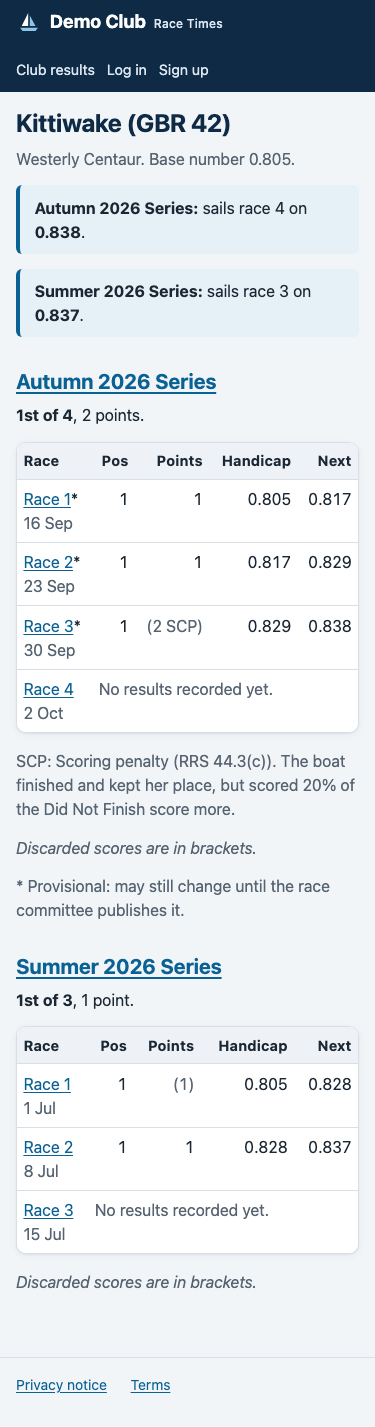
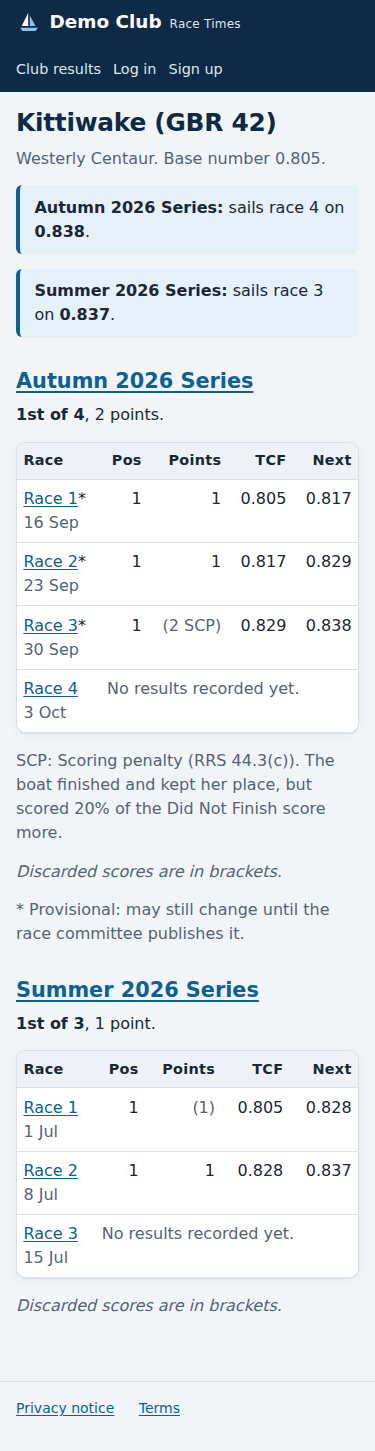
Head the NHC handicap columns TCF; give NS its own CSV column (#54)
At the owner's request: the NHC column is TCF (Next TCF), as the slice 24
spec said, and a YTC series' CSV has a separate NS column so the number stays
numeric. Manual defines TCF; the boat page screenshot is regenerated.

Claude-Session: https://claude.ai/code/session_01QY3tQYF5nVQS35pznUQfpw

diff --git a/templates/results/_race.html b/templates/results/_race.html
@@ -31,7 +31,7 @@
     <tr>
       <th class="num">Pos</th><th>Boat</th><th class="num detail">Finish</th><th class="num detail">Elapsed</th>
       <th class="num detail">{{ race.series.handicap_label }}</th><th class="num">Corrected</th><th class="num">Points</th>
-      {% if not race.series.is_fixed_number %}<th class="num detail">Next handicap</th>{% endif %}
+      {% if not race.series.is_fixed_number %}<th class="num detail">Next TCF</th>{% endif %}
     </tr>
   </thead>
   <tbody>
@@ -55,7 +55,7 @@
 {% if race_results.has_scoring_penalty %}<p class="muted">SCP: Scoring penalty (RRS 44.3(c)). The boat finished and kept her place, but scored 20% of the Did Not Finish score more.</p>{% endif %}
 {% if race.series.nhc_options %}<p class="muted">Handicaps adjusted with: {{ race.series.nhc_options|join:", " }}.</p>{% endif %}
 {# The dagger marks the next-handicap column, which only More detail shows. #}
-{% if detail and race.series.nhc_cap_extremes %}<p class="muted">&dagger; Result capped as extreme when working out the next handicap.</p>{% endif %}
+{% if detail and race.series.nhc_cap_extremes %}<p class="muted">&dagger; Result capped as extreme when working out the next TCF.</p>{% endif %}
 {% else %}
 <p class="muted">{{ section.note }}</p>
 {% endif %}

diff --git a/templates/results/boat.html b/templates/results/boat.html
@@ -21,7 +21,7 @@
   {% if next.fixed %}sails on {% if next.non_spinnaker %}her non-spinnaker {% endif %}{{ history.series.handicap_label }} <strong>{{ next.number|handicap:history.series }}</strong> for the whole series.
   {% elif next.race %}sails race {{ next.race.number }} on <strong>{{ next.tcf|tcf }}</strong>{% if next.base %}, its base number{% endif %}.
   {% elif next.base %}no races scheduled yet.
-  {% else %}handicap after race {{ next.after.number }}, the last race so far: <strong>{{ next.tcf|tcf }}</strong>.
+  {% else %}TCF after race {{ next.after.number }}, the last race so far: <strong>{{ next.tcf|tcf }}</strong>.
   {% endif %}
 </p>
 {% endwith %}{% endif %}{% endfor %}

diff --git a/results/test_portsmouth_pages.py b/results/test_portsmouth_pages.py
@@ -84,7 +84,7 @@ def test_the_race_table_is_headed_pn_and_has_no_next_handicap_column(client):
     series, _, _ = make_py_series(PY_1)
     table = race_table(series_page(client, series, race=1), 1)
     assert '<th class="num detail">PN</th>' in table
-    assert "Next handicap" not in table and ">Handicap<" not in table
+    assert "Next TCF" not in table and ">TCF<" not in table
     assert "&dagger;" not in table
 
 
@@ -176,7 +176,7 @@ def test_a_boat_in_both_kinds_of_series_shows_each_correctly(client):
     assert "Base number 0.964." in page and "Portsmouth Number 1010." in page
     autumn = page[page.index("Autumn</a>") : page.index("Gaffers</a>")]
     gaffers = page[page.index("Gaffers</a>") :]
-    assert '<th class="num">Handicap</th><th class="num">Next</th>' in autumn
+    assert '<th class="num">TCF</th><th class="num">Next</th>' in autumn
     assert '<th class="num">PN</th>' in gaffers and "Next</th>" not in gaffers
     assert "sails on PN <strong>1010</strong>" in page
 
@@ -195,8 +195,8 @@ def test_nhc_pages_keep_their_headings_and_columns(client):
         )
     page = series_page(client, series, race=1)
     table = race_table(page, 1)
-    assert '<th class="num detail">Handicap</th>' in table
-    assert '<th class="num detail">Next handicap</th>' in table
+    assert '<th class="num detail">TCF</th>' in table
+    assert '<th class="num detail">Next TCF</th>' in table
     assert "Scored under RYA NHC." in page
 
 
@@ -218,7 +218,7 @@ def test_the_csv_is_headed_pn_with_whole_numbers(client):
     ]  # fmt: skip
     first = rows[rows.index(header) + 1]
     assert first[2] == "Boat B" and first[5] == "1072"
-    assert "Handicap" not in {cell for row in rows for cell in row}
+    assert "TCF" not in {cell for row in rows for cell in row}
 
 
 # --- Pages that must not break ------------------------------------------------------------------

diff --git a/races/series_csv.py b/races/series_csv.py
@@ -122,7 +122,7 @@ RACE_COLUMNS = [
     "Boat",
     "Finish time",
     "Elapsed",
-    "Handicap",
+    "TCF",
     "Corrected",
     "Points",
     "Code",
@@ -145,8 +145,13 @@ def _write_race(row, race_results):
         ]
     )
     fixed = race.series.is_fixed_number
+    ytc = race.series.handicap_system == "YTC"
     # The handicap column is headed with the series' system (slice 24).
-    row([race.series.handicap_label if c == "Handicap" else c for c in RACE_COLUMNS])
+    columns = [race.series.handicap_label if c == "TCF" else c for c in RACE_COLUMNS]
+    if ytc:
+        # A column of its own for boats on their non-spinnaker number (slice 25).
+        columns.insert(columns.index(race.series.handicap_label) + 1, "NS")
+    row(columns)
     for line in race_results.rows:
         result, boat = line.result, line.entry.boat
         finish_time = line.finish.finish_time if line.finish else None
@@ -157,9 +162,8 @@ def _write_race(row, race_results):
                 typed(boat.name),
                 f"{finish_time:%H:%M:%S}" if finish_time else "",
                 hms(result.elapsed_seconds),
-                (f"{line.raced_on:g}{' NS' if line.is_non_spinnaker else ''}")
-                if fixed
-                else tcf(line.raced_on),
+                f"{line.raced_on:g}" if fixed else tcf(line.raced_on),
+                *(["NS" if line.is_non_spinnaker else ""] if ytc else []),
                 hms(result.corrected_time),
                 points(result.points),
                 "SCP"

diff --git a/results/test_ytc_pages.py b/results/test_ytc_pages.py
@@ -64,7 +64,7 @@ def test_the_series_page_shows_the_worked_example(client, example_id):
     for race, race_example in zip(races, example["races"], strict=True):
         table = race_table(series_page(client, series, race=race.number), race.number)
         assert '<th class="num detail">YTC</th>' in table
-        assert "Next handicap" not in table
+        assert "Next TCF" not in table
         for letter, want in race_example["expected"].items():
             row = row_for(table, entries[letter].boat)
             number = example["boats"][letter]
@@ -136,12 +136,11 @@ def test_the_csv_is_headed_ytc_and_marks_ns(client):
     response = client.get(reverse("results:series_csv", args=[series.pk]))
     rows = list(csv.reader(io.StringIO(response.content.decode("utf-8-sig"))))
     header = next(row for row in rows if "Corrected" in row)
-    assert header[5] == "YTC"
+    assert header[5:7] == ["YTC", "NS"]  # NS has a column of its own
     first = rows[rows.index(header) + 1]
-    assert first[2] == "Boat A" and first[5] == "899 NS"
-    assert (
-        next(r for r in rows[rows.index(header) + 1 :] if r[2] == "Boat B")[5] == "940"
-    )
+    assert first[2] == "Boat A" and first[5:7] == ["899", "NS"]
+    boat_b = next(r for r in rows[rows.index(header) + 1 :] if r[2] == "Boat B")
+    assert boat_b[5:7] == ["940", ""]
     assert any(row and row[0].startswith("NS: raced on") for row in rows)
 
 

diff --git a/races/models.py b/races/models.py
@@ -531,11 +531,11 @@ class Series(models.Model):
 
     @property
     def handicap_label(self):
-        """What the handicap column is headed: "PN" under Portsmouth Yardstick."""
+        """What the handicap column is headed: "TCF" (NHC), "PN" or "YTC"."""
         return {
             self.HandicapSystem.PY: "PN",
             self.HandicapSystem.YTC: "YTC",
-        }.get(self.handicap_system, "Handicap")
+        }.get(self.handicap_system, "TCF")
 
     @property
     def discards_description(self):

diff --git a/results/test_page_layout.py b/results/test_page_layout.py
@@ -110,6 +110,6 @@ def test_the_capping_footnote_is_its_own_line_and_only_with_more_detail(client, 
     assert (
         '<p class="muted">Handicaps adjusted with: extreme-result capping.</p>' in html
     )
-    footnote = '<p class="muted">&dagger; Result capped as extreme when working out the next handicap.</p>'
+    footnote = '<p class="muted">&dagger; Result capped as extreme when working out the next TCF.</p>'
     assert (footnote in html) is detail
     assert "shown with More detail" not in html

diff --git a/results/test_views.py b/results/test_views.py
@@ -420,7 +420,7 @@ def test_after_the_last_race_the_next_handicap_says_so(client, three_races):
     _series, races, entries = three_races
     races[3].delete()
     page = boat_page(client, entries[0].boat)
-    assert "handicap after race 3, the last race so far:" in page
+    assert "TCF after race 3, the last race so far:" in page
 
 
 def test_before_any_race_a_boat_sails_on_its_base_number(client):

diff --git a/results/test_export.py b/results/test_export.py
@@ -84,7 +84,7 @@ def test_each_race_is_listed_with_its_rows(client, season):
         "Boat",
         "Finish time",
         "Elapsed",
-        "Handicap",
+        "TCF",
         "Corrected",
         "Points",
         "Code",

diff --git a/manual/getting-started/how-results-are-worked-out.md b/manual/getting-started/how-results-are-worked-out.md
@@ -27,7 +27,9 @@ Race Times needs only three things:
 - **Each boat's NHC base number.** The RYA publishes it, and the race
   committee enters it on the boat's page (see
   [Setting up boats](../committee/setting-up-boats.md)). It's the boat's
-  handicap in the first race of every series.
+  handicap in the first race of every series. A handicap number like this is
+  called a **TCF** (time correction factor), and it is what the results pages
+  head their handicap column with.
 - **The race's start time.**
 - **Each boat's finish time**, or a code if it didn't finish: DNC (did not
   come to the start), DNS (did not start) or DNF (did not finish).
@@ -43,7 +45,7 @@ number, so it has to sail faster to beat slower boats.
 
 Five boats are entered. The race starts at 18:30:00.
 
-| Boat | Handicap for this race | Finish time |
+| Boat | TCF for this race | Finish time |
 |---|---|---|
 | Boat 1 | 0.966 | 19:28:47 |
 | Boat 2 | 0.819 | 19:46:50 |
@@ -77,7 +79,7 @@ Each boat's elapsed time is multiplied by its handicap:
 The boat with the **lowest corrected time wins**, and the others follow in
 order.
 
-| Place | Boat | Elapsed (seconds) | × Handicap | = Corrected (seconds) | Shown as |
+| Place | Boat | Elapsed (seconds) | × TCF | = Corrected (seconds) | Shown as |
 |---|---|---|---|---|---|
 | 1 | Boat 4 | 3448 | × 0.964 | = 3323.87 | 0:55:24 |
 | 2 | Boat 3 | 3548 | × 0.939 | = 3331.57 | 0:55:32 |
@@ -191,7 +193,7 @@ par. That's its **achieved handicap**:
 
 > **Achieved handicap = par time ÷ elapsed time**
 
-| Boat | Par time ÷ elapsed | = Achieved handicap | Handicap it raced on |
+| Boat | Par time ÷ elapsed | = Achieved TCF | TCF it raced on |
 |---|---|---|---|
 | Boat 4 | 3439.28 ÷ 3448 | = 0.9975 | 0.964 |
 | Boat 3 | 3439.28 ÷ 3548 | = 0.9694 | 0.939 |

diff --git a/docs/decisions.md b/docs/decisions.md
@@ -2247,6 +2247,19 @@ the stored results, so a final series keeps what she raced on. Temporary
 numbers (section 4.6) are out of scope, as the spec says, and the manual says
 so. One schema migration, 0025, with no data migration.
 
+## 2026-10-03 - NHC columns are headed TCF, and NS has a CSV column of its own
+
+**Decision.** At the project owner's request, the results pages head the NHC
+handicap column "TCF" and the next-handicap column "Next TCF" (the slice 24
+spec's wording), where slice 24 had kept "Handicap". The CSV header follows,
+and the manual defines TCF. Prose that says "handicap" for the idea is
+unchanged, and so are the system's names. Portsmouth and YTC columns stay "PN"
+and "YTC".
+
+In an RYA YTC series' CSV, "NS" is a column of its own after the number
+("899", then "NS" or empty), instead of text in the number cell, so the
+number stays a number in a spreadsheet. Other series' CSVs have no such column.
+
 ## Open requirements
 
 Things that must be done before a stated milestone, but aren't code.

diff --git a/manual/committee/handicap-systems.md b/manual/committee/handicap-systems.md
@@ -100,7 +100,7 @@ on her YTC number in one series and her non-spinnaker number in another.
 
 The results head the column **YTC**. A boat on her non-spinnaker number is
 marked **NS**, with a line under the table saying what it means. The same
-mark is on the race day page, in the results emails and in the CSV download,
+mark is on the race day page, in the results emails and (as a column of its own) in the CSV download,
 so the committee on the water knows which boats shouldn't be flying a
 spinnaker.
 
@@ -146,8 +146,8 @@ that suits her. Each series has its own results and its own standings.
 
 ## What the public sees
 
-The series' results show a **PN** column in place of the NHC handicap, and no
-"next handicap", since nothing changes.
+The series' results show a **PN** column in place of the NHC TCF, and no
+"next TCF", since nothing changes.
 
 ![A Portsmouth Yardstick race's results: each boat's PN, elapsed and corrected times, places and points](../images/results-portsmouth.png)
 
